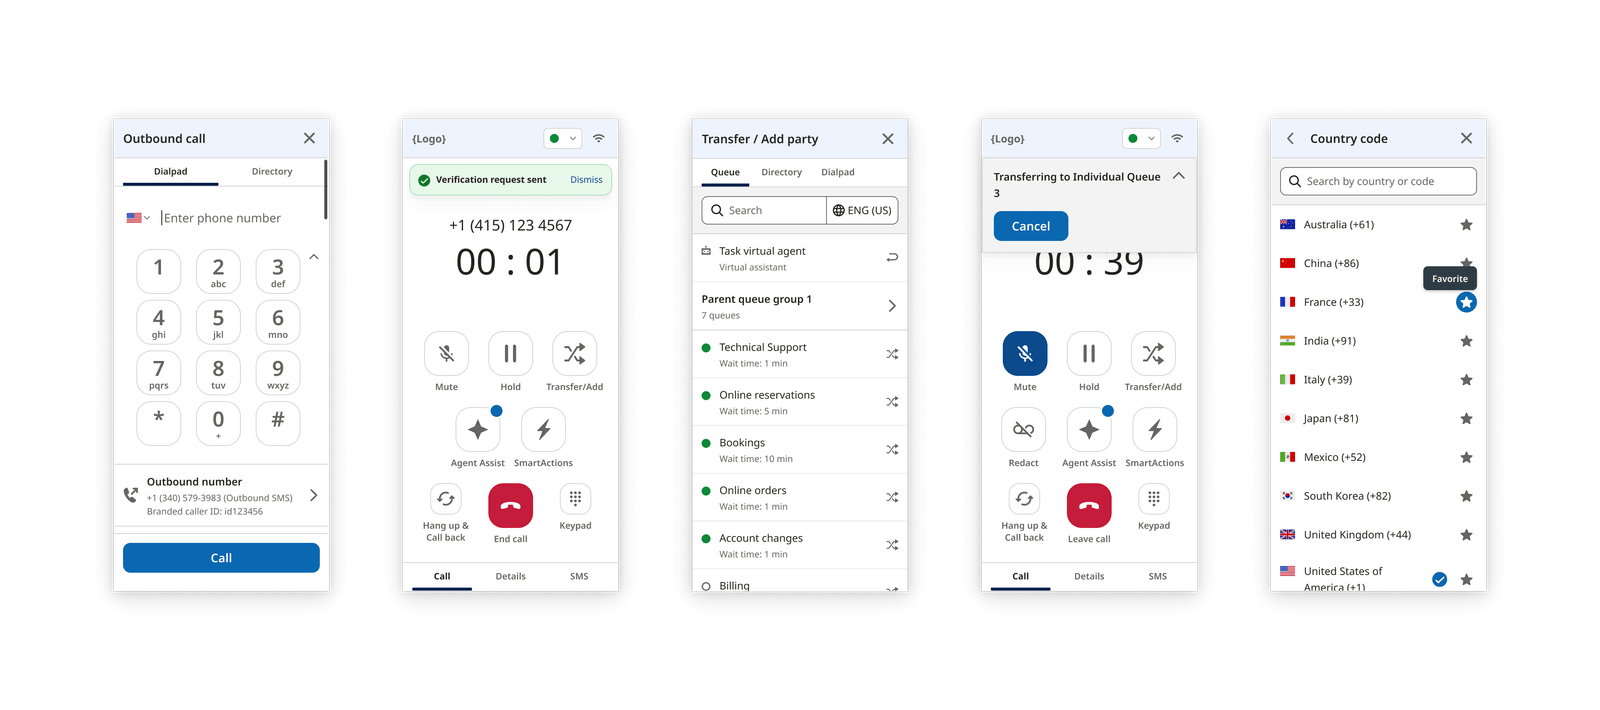
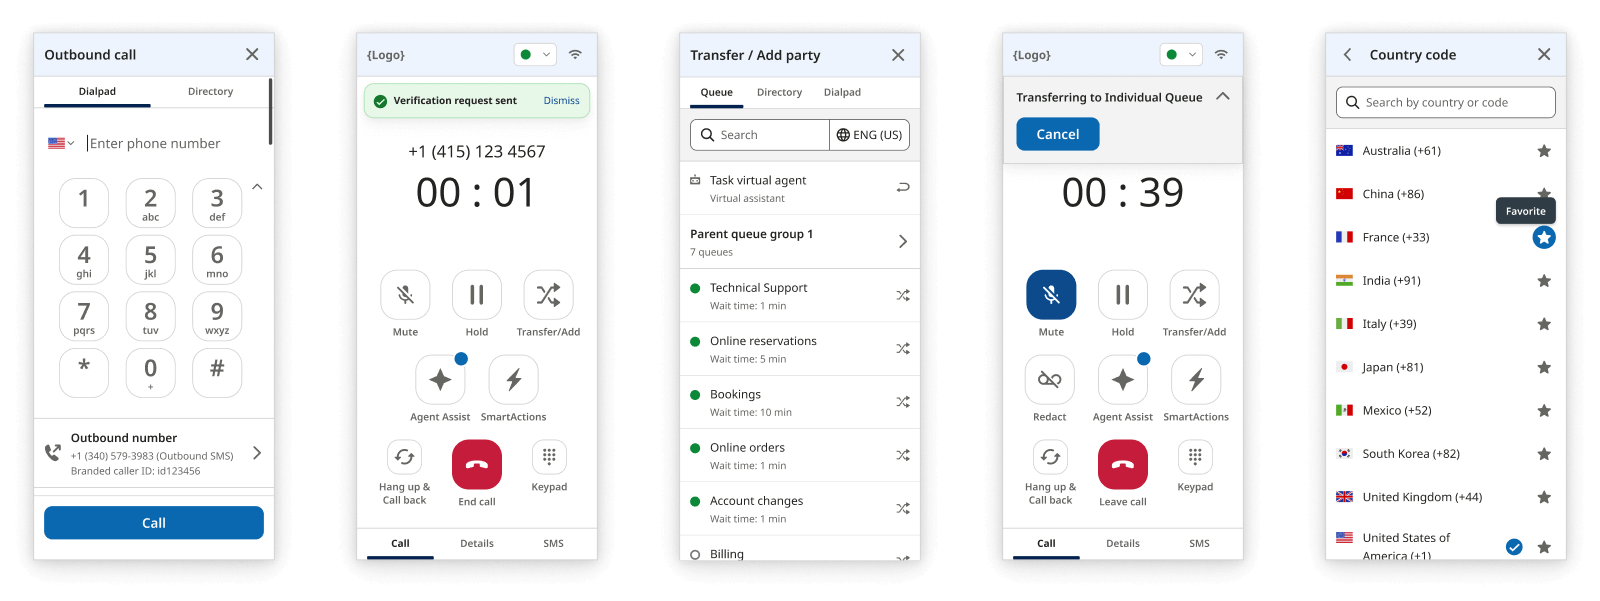
added old call app screens image

diff --git a/projects/voice-chat-web-and-mobile-apps.html b/projects/voice-chat-web-and-mobile-apps.html
@@ -184,20 +184,22 @@
   </div>
   <div class="project-section">
     <div class="div-block-6"></div>
-    <div class="wrapper-centered top-padding">
+    <div class="wrapper-centered top-padding bottom-padding">
       <div class="wrapper-copy-full">
         <h1 class="header-2">Voice/IVR Call Web App</h1>
         <div class="wrapper-project-body-copy">
           <p class="body-copy">The Voice/IVR system is the most feature-rich and complex product in the suite. It also required a redesign and UX improvements. While my UI Director led this project, I contributed to design system implementation and helped maintain consistency with the rest of the platform ecosystem.</p>
         </div>
       </div>
-      <div class="wrapper-image-full top-padding"><img src="../images/call-app-screens.png" sizes="(max-width: 4292px) 100vw, 4292px" srcset="../images/e083c04d2e8ac9d743abed2240c463b6_call-app-screens-p-500.png 500w, ../images/e083c04d2e8ac9d743abed2240c463b6_call-app-screens-p-800.png 800w, ../images/e083c04d2e8ac9d743abed2240c463b6_call-app-screens-p-1080.png 1080w, ../images/e083c04d2e8ac9d743abed2240c463b6_call-app-screens-p-1600.png 1600w, ../images/e083c04d2e8ac9d743abed2240c463b6_call-app-screens-p-2000.png 2000w, ../images/e083c04d2e8ac9d743abed2240c463b6_call-app-screens-p-2600.png 2600w, ../images/e083c04d2e8ac9d743abed2240c463b6_call-app-screens-p-3200.png 3200w, ../images/call-app-screens.png 4292w" alt="Key call screens" class="image-90"></div>
+      <div class="wrapper-image-full top-padding"><img src="../images/call-app-screens-old.png" sizes="(max-width: 4292px) 100vw, 4292px" srcset="../images/call-app-screens-old-p-500.png 500w, ../images/call-app-screens-old-p-800 800w, ../images/call-app-screens-old-p-1080.png 1080w, ../images/call-app-screens-old-p-1600.png 1600w, ../images/call-app-screens-old-p-2000.png 2000w, ../images/call-app-screens-old-p-2600.png 2600w, ../images/call-app-screens-old-p-3200.png 3200w, ../images/call-app-screens-old.png 4292w" alt="Current design call screens" class="image-90"></div>
+        <p class="caption">The current call app design</p>
     </div>
     <div class="wrapper-centered color-light-grey top-padding bottom-padding">
       <div class="wrapper-copy-full">
         <h1 class="header-3">Contribution highlights</h1>
         <p class="body-copy">I supported the integration of the new design system governance into the voice/call app and aligned key interaction patterns and visual language from our mobile app to ensure consistency across features. With ongoing feature enhancement, I led a few key projects to continue improving the Voice/Call app.<br></p>
       </div>
+      <div class="wrapper-image-full top-padding"><img src="../images/call-app-screens.png" sizes="(max-width: 4292px) 100vw, 4292px" srcset="../images/e083c04d2e8ac9d743abed2240c463b6_call-app-screens-p-500.png 500w, ../images/e083c04d2e8ac9d743abed2240c463b6_call-app-screens-p-800.png 800w, ../images/e083c04d2e8ac9d743abed2240c463b6_call-app-screens-p-1080.png 1080w, ../images/e083c04d2e8ac9d743abed2240c463b6_call-app-screens-p-1600.png 1600w, ../images/e083c04d2e8ac9d743abed2240c463b6_call-app-screens-p-2000.png 2000w, ../images/e083c04d2e8ac9d743abed2240c463b6_call-app-screens-p-2600.png 2600w, ../images/e083c04d2e8ac9d743abed2240c463b6_call-app-screens-p-3200.png 3200w, ../images/call-app-screens.png 4292w" alt="Key call screens" class="image-90"></div>
     </div>
     <div class="wrapper-centered top-padding bottom-padding">
       <div class="wrapper-copy-full">
